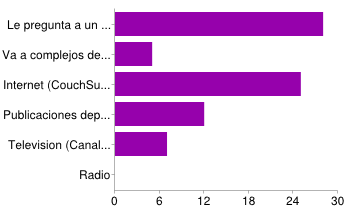
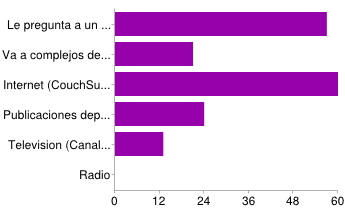
Actualizados resultados de encuesta y se añade el analisis de resultados

diff --git a/Anteproyecto/Capitulos/6-Metodos/Encuesta.tex b/Anteproyecto/Capitulos/6-Metodos/Encuesta.tex
@@ -1,0 +1,163 @@
+\section{Encuesta inicial}
+
+\subsection{Información necesaria}
+
+El proposito de esta encuesta, de carácter exploratorio, es determinar, en la poblacion bogotana, como se relaciona la practica de algún deporte con el uso del internet.
+Para esto, la encuesta está enfocada para obtener los siguientes datos:
+\begin{itemize}
+  \item ¿Desde qué lugar suelen conectarse a internet?
+  \item ¿Cuales son los deportes mas practicados?
+  \item ¿Cómo buscan los temas relacionados a la practica de un deporte?
+\end{itemize}
+
+\subsection{Naturaleza de la encuesta}
+
+El tipo de encuesta elegido para realizar el estudio fue la encuesta electrónica por internet, valiéndonos de la herramienta de generación de encuestas de Google Drive (antes Google Docs).
+
+\subsection{Técnicas de esacalamiento utilizadas}
+
+Teniendo en cuenta que la encuesta debe ser lo más corta y sencilla posible, la técnica a utilizar será la de realizar preguntas con única y múltiple respuesta. Esto nos permitirá también analizar la distribución de las respuestas entre los usuarios.
+
+
+\subsection{Trabajo de campo}
+
+El trabajo de campo se realizó mediante una encuesta, de manera virtual, donde se obtienen las diferentes preferencias de los encuestados al momento de practicar un deporte y su relacion con el uso de internet para este proposito.
+Los resultados de las encuestas se presentan en el anexo \ref{anexo1}
+
+\subsection{Análisis de resultados}
+
+La encuesta se practicó a 155 personas, a travez de internet, y valiendonos de grupos y sitios web que frecuentan los jovenes de Bogotá, en su mayoria estudiantes universitarios.\\
+
+\begin{itemize}
+  \item Edad \\
+  Los rangos de edad de los encuestados varian de 13 hasta 60 años, concentrandose en el rango de 20 a 27 años. Aún cuando esta pregunta no refleja ningún comportamiento de analisis, refleja que la encuesta fue practicada, en su gran mayoria, a los jovenes Bogotanos.
+  \item Ocupación \\
+  Se puede apreciar como el 66\% de los encuestados son estudiantes. Los estudiantes suelen tener grupos de amigos/conocidos en su lugar de estudio con quienes pasan tiempo por fuera de sus lugares de estudio, son jovenes que, en su mayoria, estan disfrutando de su etapa de estudiantes universitarios, concentrandose mayoritariamente en sus estudios. Por otra parte, un 25\% de los encuestados dicen ser Empleados, y teniendo en cuenta como y a quien se le realiza la encuesta, se puede suponer que son estudiantes que, a parte de estudiar, tambien tienen que trabajar.
+  \item Elementos electronicos \\
+  El elemento que mas  dicen tener los encuestados es el computador portatil (37\%) , lo cual tiene sentido teniendo en cuenta las necesidades de un estudiante universitario, seguido muy de cerca del computador de escritorio (26\%) y el smartphone (26\%). En la mayoria de los casos, aseguran tener tanto computador portatil como smarthpone. De allí se puede deducir que a los jóvenes les gusta estar en constante conexion con el mundo digital y la internet.
+  \item Lugar de acceso a internet \\
+  El lugar desde el que se accede a internet con mayor frecuencia es el hogar con un 43\%, seguido de el lugar de estudio (23\%) y del internet movil(13\%). Adicionalmente, los encuestados aseguran que los lugares en los que duran mas tiempo conectados son el hogar (72\%) y el internet móvil (15\%). Esto muestra que hay preferencia en conectarse desde lugares y dispositivos en los que se sienten mas en privado (o en control) de quienes tienen acceso a la informacion contenida por estos dispositivos.
+  \item ¿Practica deporte? \\
+  El 63\% de los encuestados asegura practicar algún deporte, mientras el 37\% no. Las razones por las que este importante porcentaje de la población no practican algun deporte sale del alcance de esta primera encuesta.
+  \item Deportes practicados \\
+  En los deportes practicados, resaltan el Futbol (27\%), Baloncesto (13\%) y Ciclismo (13\%), mientras que los deportes en los que se requieren implementos o lugares especializados no son tan comunes (Tenis 7\%, Escalada deportiva 3\%, Patinaje 1\% y no se practican deportes como Rugby, Futbol Americano o Golf)
+  \item Métodos de búsqueda \\
+  Para analizar los métodos de busqueda, se realizaron preguntas enfocadas a la busqueda de nuevos deportes, implementos, lugares y grupos o equipos para practicar estos deportes. El comun denominador para cada una de ellas fue consultar con los amigos, en donde siempre fue de las opciones mas populares, solo superada por la consulta de tiendas deportivas (en el caso de la busqueda de implementos) y el CouchSurfing (en el caso de la busqueda de un nuevo deporte), demostrando que las opiniones de los amigos/conocidos tienen mayor importancia que cualquier otra forma de busqueda.
+\end{itemize}
+
+
+\subsection{Formato de encuesta}
+
+\begin{enumerate}
+  \item ¿Qué edad tiene?
+  \item Sexo
+  \begin{itemize}
+    \item Hombre
+    \item Mujer
+  \end{itemize}
+  \item Cual es su ocupación
+  \begin{itemize}
+    \item Estudiante
+    \item Empleado
+    \item Desempleado
+    \item Otro
+  \end{itemize}
+  \item Cual de los siguientes elementos posee usted en la actualidad (Seleccione todos los que apliquen)
+  \begin{itemize}
+    \item Tablet
+    \item Smartphone
+    \item Computador de escritorio
+    \item Computador portatil
+    \item Ninguno
+  \end{itemize}
+  \item ¿Desde qué lugar suele usted conectarse a internet? (Seleccione todos los que apliquen)
+  \begin{itemize}
+    \item Hogar
+    \item Casa de un amigo/conocido
+    \item Café internet
+    \item Trabajo
+    \item Lugar de estuio
+    \item Cualquier lugar (internet movil)
+  \end{itemize}
+  \item ¿Cual es el lugar desde el cual usted dura mas tiempo navegando por internet?
+  \begin{itemize}
+    \item Hogar
+    \item Casa de un amigo/conocido
+    \item Café internet
+    \item Trabajo
+    \item Lugar de estuio
+    \item Cualquier lugar (internet movil)
+  \end{itemize}
+  \item En promedio, ¿Cuanto tiempo utiliza usted el internet por dia?
+  \begin{itemize}
+    \item Menos de una hora
+    \item De una a tres horas
+    \item De tres a seis horas
+    \item Mas de seis horas
+  \end{itemize}
+  \item ¿Practica usted algún deporte?
+  \begin{itemize}
+    \item Si
+    \item No
+  \end{itemize}
+  \item En caso de practicar algún deporte, ¿Qué deporte practica?
+  \begin{itemize}
+    \item Fútbol
+    \item Voleyball
+    \item Tennis
+    \item Golf
+    \item Rugby
+    \item Fútbol americano
+    \item Patinaje
+    \item Ciclismo
+    \item Escalada deportiva
+    \item Baloncesto
+    \item Otro
+  \end{itemize}
+  \item Cuando quiere buscar personas con quien practicar deporte ¿Por qué medio lo hace?
+  \begin{itemize}
+    \item Internet
+    \item Compañeros cercanos
+    \item Equipos consolidados
+    \item No sabe donde buscar
+  \end{itemize}
+  \item Cuando quiere buscar un lugar donde practicar deporte ¿Por qué me dio lo hace?
+  \begin{itemize}
+    \item Internet
+    \item Consulta con amigos/conocidos
+    \item Centros especializados en su deporte
+    \item No sabe donde buscar
+  \end{itemize}
+  \item Cuando quiere buscar implementos deportivos, ¿Por qué medio lo hace?
+  \begin{itemize}
+    \item Tiendas deportivas
+    \item Tiendas en linea (Mercadolibre, olx, Amazon)
+    \item Redes sociales (Facebook, twitter)
+    \item Le pregunta a un conocido
+    \item Tiendas de cadena (Jumbo, exito, Makro)
+    \item Outlets
+    \item Television
+    \item Radio
+  \end{itemize}
+  \item Cuando quiere buscar un nuevo deporte para practicar, ¿Por qué medio lo hace?
+  \begin{itemize}
+    \item Le pregunta a un conocido
+    \item Va a complejos deportivos
+    \item Internet (CouchSurfing)
+    \item Publicaciones deportivas
+    \item Television (Canales deportivos)
+    \item Radio
+  \end{itemize}
+  \item Usted quiere practicar un deporte nuevo, ¿Cómo prefiere hacerlo?
+  \begin{itemize}
+    \item Solo
+    \item Con un grupo de amigos
+    \item Con grupos previamente consolidados en ese deporte
+    \item Desconocidos con intereses comunes en ese deporte
+  \end{itemize}
+  \item BONUS: ¿Considera usted que los videojuegos sean un deporte?
+  \begin{itemize}
+    \item Si
+    \item No
+  \end{itemize}
+\end{enumerate}

diff --git a/Anteproyecto/Anteproyecto.tex b/Anteproyecto/Anteproyecto.tex
@@ -78,22 +78,20 @@
   \section{Objetivo General}
   \section{Objetivos especificos}
   
-  \chapter{Hipotesis}
-  
   \chapter{Marco teórico}
   
   \chapter{Metodología}
   
   \chapter{Metodos utilizados}
   
-  \input{./Capitulos/7-Metodos/Encuesta.tex}
+  \input{./Capitulos/6-Metodos/Encuesta.tex}
   
   \chapter{Cronograma}
   
   \chapter{Recursos}
   
-  \input{./Capitulos/9-Recursos/Hardware.tex}
-  \input{./Capitulos/9-Recursos/Software.tex}
+  \input{./Capitulos/8-Recursos/Hardware.tex}
+  \input{./Capitulos/8-Recursos/Software.tex}
   
   \chapter{Referencias}
   
